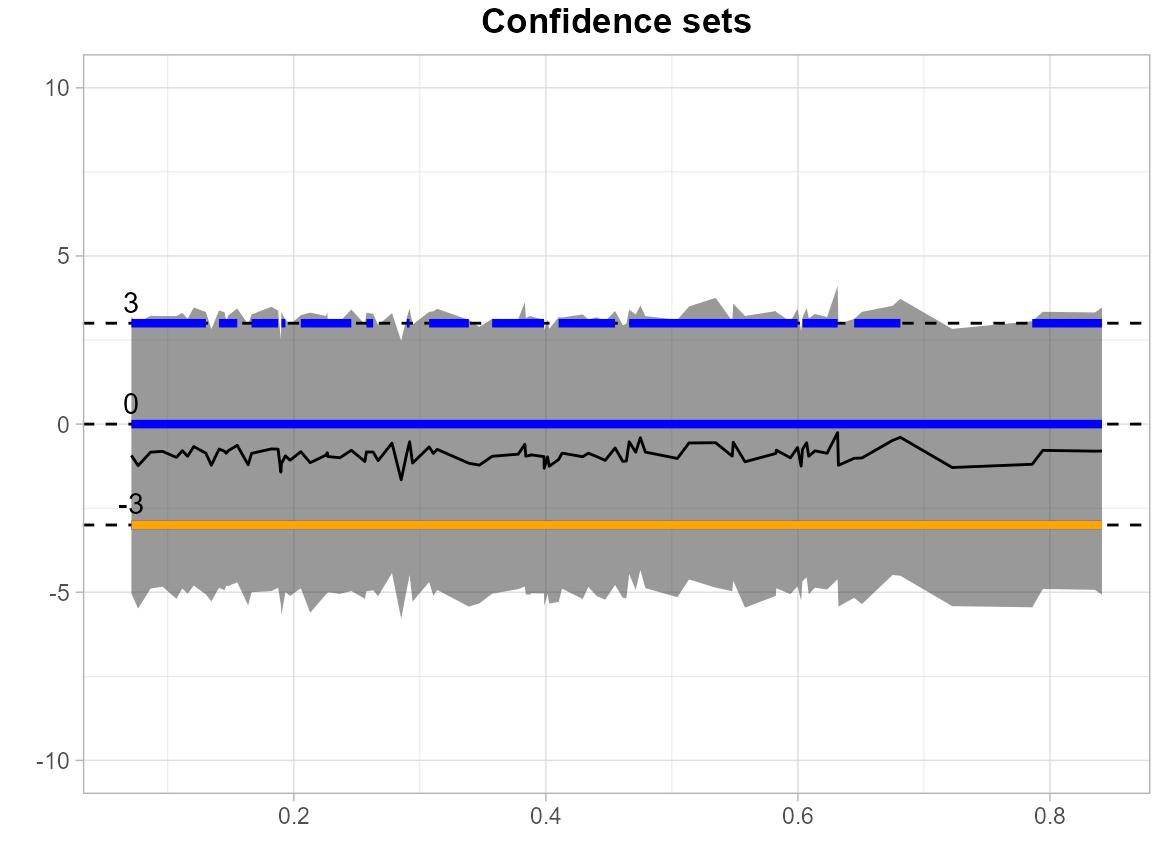
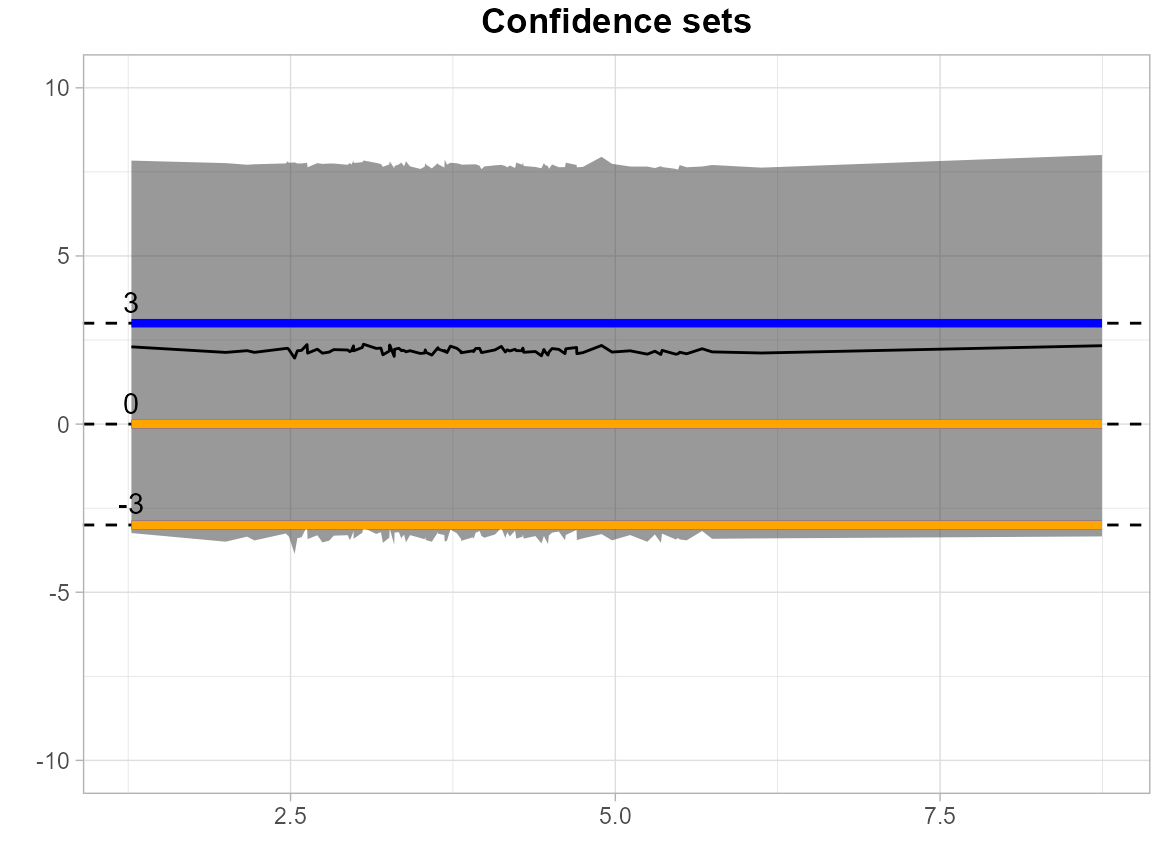
Update examples for ipad data, revise text in Methods vignette

diff --git a/docs/articles/Linear_Model_Example.html b/docs/articles/Linear_Model_Example.html
@@ -62,7 +62,7 @@
       <h1>Linear_Model_Example</h1>
                         <h4 data-toc-skip class="author">Angela Yu</h4>
             
-            <h4 data-toc-skip class="date">2025-09-13</h4>
+            <h4 data-toc-skip class="date">2025-09-22</h4>
       
       <small class="dont-index">Source: <a href="https://github.com/AngelaYuStat/SCoRES/blob/HEAD/vignettes/Linear_Model_Example.Rmd" class="external-link"><code>vignettes/Linear_Model_Example.Rmd</code></a></small>
       <div class="d-none name"><code>Linear_Model_Example.Rmd</code></div>
@@ -348,12 +348,8 @@ SCB for intercept.</p>
 <code>grid_df</code> for <code>ipad</code> data.</p>
 <div class="sourceCode" id="cb16"><pre class="downlit sourceCode r">
 <code class="sourceCode R"><span><span class="va">grid_lin</span> <span class="op">&lt;-</span> <span class="va">df_lin</span> <span class="op"><a href="https://magrittr.tidyverse.org/reference/pipe.html" class="external-link">%&gt;%</a></span></span>
-<span>  <span class="fu"><a href="https://dplyr.tidyverse.org/reference/select.html" class="external-link">select</a></span><span class="op">(</span><span class="va">i_prop_false_timeout</span>, <span class="va">i_prop_failed1</span>, <span class="va">i_prop_failed2</span>, </span>
-<span>         <span class="va">i_judgement_time1</span>, <span class="va">i_judgement_time2</span>, <span class="va">i_time_outside_reticle</span>, </span>
-<span>         <span class="va">i_time_on_edge</span>, <span class="va">i_prop_hit</span>, <span class="va">i_correct_reaction2</span>, </span>
-<span>         <span class="va">i_reaction_time_max2</span>, <span class="va">i_reaction_time2</span>, <span class="va">i_rep_shapes12</span>, </span>
-<span>         <span class="va">i_rep_shapes34</span>, <span class="va">i_memory_time12</span>, <span class="va">i_memory_time34</span>, </span>
-<span>         <span class="va">i_composite_score</span><span class="op">)</span></span>
+<span>  <span class="fu"><a href="https://dplyr.tidyverse.org/reference/select.html" class="external-link">select</a></span><span class="op">(</span><span class="va">p_fpc1</span>, <span class="va">p_fpc2</span>, <span class="va">p_fpc3</span>, <span class="va">p_fpc4</span>, <span class="va">p_fpc5</span>, <span class="va">p_fpc6</span>, <span class="va">p_PMC_pctChg</span>, <span class="va">p_auc</span><span class="op">)</span> <span class="op"><a href="https://magrittr.tidyverse.org/reference/pipe.html" class="external-link">%&gt;%</a></span></span>
+<span>  <span class="fu"><a href="https://dplyr.tidyverse.org/reference/arrange.html" class="external-link">arrange</a></span><span class="op">(</span><span class="va">p_auc</span><span class="op">)</span></span>
 <span><span class="va">results</span> <span class="op">&lt;-</span> <span class="fu"><a href="../reference/SCB_linear_outcome.html">SCB_linear_outcome</a></span><span class="op">(</span>df_fit <span class="op">=</span> <span class="va">df_lin</span>, model <span class="op">=</span> <span class="va">model_lin</span>, grid_df <span class="op">=</span> <span class="va">grid_lin</span><span class="op">)</span></span></code></pre></div>
 <p>The <code>levels = c(-3, 0, 3)</code> argument specifies a set of
 thresholds, and <code><a href="../reference/plot_cs.html">SCoRES::plot_cs()</a></code> function estimates
@@ -364,10 +360,10 @@ the outer confidence region.</p>
 <code class="sourceCode R"><span><span class="va">results</span> <span class="op">&lt;-</span> <span class="fu">tibble</span><span class="fu">::</span><span class="fu"><a href="https://tibble.tidyverse.org/reference/as_tibble.html" class="external-link">as_tibble</a></span><span class="op">(</span><span class="va">results</span><span class="op">)</span></span>
 <span><span class="va">p</span> <span class="op">&lt;-</span> <span class="fu"><a href="https://rdrr.io/r/base/warning.html" class="external-link">suppressWarnings</a></span><span class="op">(</span><span class="fu"><a href="../reference/plot_cs.html">plot_cs</a></span><span class="op">(</span><span class="va">results</span>,</span>
 <span>        levels <span class="op">=</span> <span class="fu"><a href="https://rdrr.io/r/base/c.html" class="external-link">c</a></span><span class="op">(</span><span class="op">-</span><span class="fl">3</span>, <span class="fl">0</span>, <span class="fl">3</span><span class="op">)</span>, </span>
-<span>        x <span class="op">=</span> <span class="va">grid_lin</span><span class="op">$</span><span class="va">i_composite_score</span>, </span>
+<span>        x <span class="op">=</span> <span class="va">grid_lin</span><span class="op">$</span><span class="va">p_auc</span>, </span>
 <span>        mu_hat <span class="op">=</span> <span class="va">results</span><span class="op">$</span><span class="va">Mean</span>, </span>
 <span>        xlab <span class="op">=</span> <span class="st">""</span>, </span>
-<span>        ylab <span class="op">=</span> <span class="st">""</span>, </span>
+<span>        ylab <span class="op">=</span> <span class="st">""</span>,  </span>
 <span>        level_label <span class="op">=</span> <span class="cn">T</span>, </span>
 <span>        min.size <span class="op">=</span> <span class="fl">40</span>, </span>
 <span>        palette <span class="op">=</span> <span class="st">"Spectral"</span>, </span>

diff --git a/docs/articles/Methods.html b/docs/articles/Methods.html
@@ -62,7 +62,7 @@
       <h1>Methods</h1>
                         <h4 data-toc-skip class="author">Angela Yu</h4>
             
-            <h4 data-toc-skip class="date">2025-08-24</h4>
+            <h4 data-toc-skip class="date">2025-09-22</h4>
       
       <small class="dont-index">Source: <a href="https://github.com/AngelaYuStat/SCoRES/blob/HEAD/vignettes/Methods.Rmd" class="external-link"><code>vignettes/Methods.Rmd</code></a></small>
       <div class="d-none name"><code>Methods.Rmd</code></div>
@@ -81,7 +81,8 @@ geographical regions where average difference between summer and winter
 temperatures exceed a certain benchmark, which help policymakers focus
 on specific areas that are at higher risk for effects of climate
 change.</p>
-<p>Mathematically, the target region correspond to the inverse image of
+<p>Mathematically, the target region corresponding to the inverse image
+of
 <math display="inline" xmlns="http://www.w3.org/1998/Math/MathML"><semantics><mrow><mi>U</mi><mo>⊂</mo><mi>ℝ</mi></mrow><annotation encoding="application/x-tex">U \subset  \mathbb{R}</annotation></semantics></math>
 under an unknown function
 <math display="inline" xmlns="http://www.w3.org/1998/Math/MathML"><semantics><mrow><mi>μ</mi><mo>:</mo><mi>𝒮</mi><mo>→</mo><mi>ℝ</mi></mrow><annotation encoding="application/x-tex">\mu: \mathcal{S} \to \mathbb{R}</annotation></semantics></math>,
@@ -102,8 +103,8 @@ is an empirical estimator of
 <math display="inline" xmlns="http://www.w3.org/1998/Math/MathML"><semantics><mi>μ</mi><annotation encoding="application/x-tex">\mu</annotation></semantics></math>
 based on
 <math display="inline" xmlns="http://www.w3.org/1998/Math/MathML"><semantics><mi>n</mi><annotation encoding="application/x-tex">n</annotation></semantics></math>
-observations. To quantify the spatial uncertainty of this estimation,
-Sommerfeld et al. (2018) introduced Coverage Probability Excursion
+observations. To quantify the spatial uncertainty of this estimate,
+Sommerfeld et al. (2018) introduced the Coverage Probability Excursion
 (CoPE) sets, defined as:
 <math display="block" xmlns="http://www.w3.org/1998/Math/MathML"><semantics><mrow><msub><mtext mathvariant="normal">CS</mtext><mtext mathvariant="normal">in</mtext></msub><mrow><mo stretchy="true" form="prefix">(</mo><mi>U</mi><mo stretchy="true" form="postfix">)</mo></mrow><mo>⊆</mo><msup><mi>μ</mi><mrow><mi>−</mi><mn>1</mn></mrow></msup><mrow><mo stretchy="true" form="prefix">(</mo><mi>U</mi><mo stretchy="true" form="postfix">)</mo></mrow><mo>⊆</mo><msub><mtext mathvariant="normal">CS</mtext><mtext mathvariant="normal">out</mtext></msub><mrow><mo stretchy="true" form="prefix">(</mo><mi>U</mi><mo stretchy="true" form="postfix">)</mo></mrow></mrow><annotation encoding="application/x-tex">
 \text{CS}_{\text{in}}(U) \subseteq \mu^{-1}(U) \subseteq \text{CS}_{\text{out}}(U)
@@ -134,7 +135,7 @@ lower or interval confidence region of
 over arbitrary chosen thresholds. The coverage probability is achieved
 non-asymptotically and simultaneously through inverting simultaneous
 confidence intervals. For instance, suppose we are interested in inverse
-set
+region
 <math display="inline" xmlns="http://www.w3.org/1998/Math/MathML"><semantics><mrow><msup><mi>μ</mi><mrow><mi>−</mi><mn>1</mn></mrow></msup><mrow><mo stretchy="true" form="prefix">(</mo><mo stretchy="false" form="prefix">[</mo><mi>c</mi><mo>,</mo><mi>∞</mi><mo stretchy="true" form="postfix">)</mo></mrow><mo stretchy="false" form="postfix">)</mo></mrow><annotation encoding="application/x-tex">\mu^{-1}([c,\infty))</annotation></semantics></math>
 for a single value
 <math display="inline" xmlns="http://www.w3.org/1998/Math/MathML"><semantics><mi>c</mi><annotation encoding="application/x-tex">c</annotation></semantics></math>,
@@ -374,7 +375,7 @@ nearly equal quantities.</p></li>
 
 
     <footer><div class="pkgdown-footer-left">
-  <p>Developed by Angela Yu, Armin Schwartzman, Junting Ren, Julia Wrobel.</p>
+  <p>Developed by Zhuoran Yu, Armin Schwartzman, Junting Ren, Julia Wrobel.</p>
 </div>
 
 <div class="pkgdown-footer-right">
